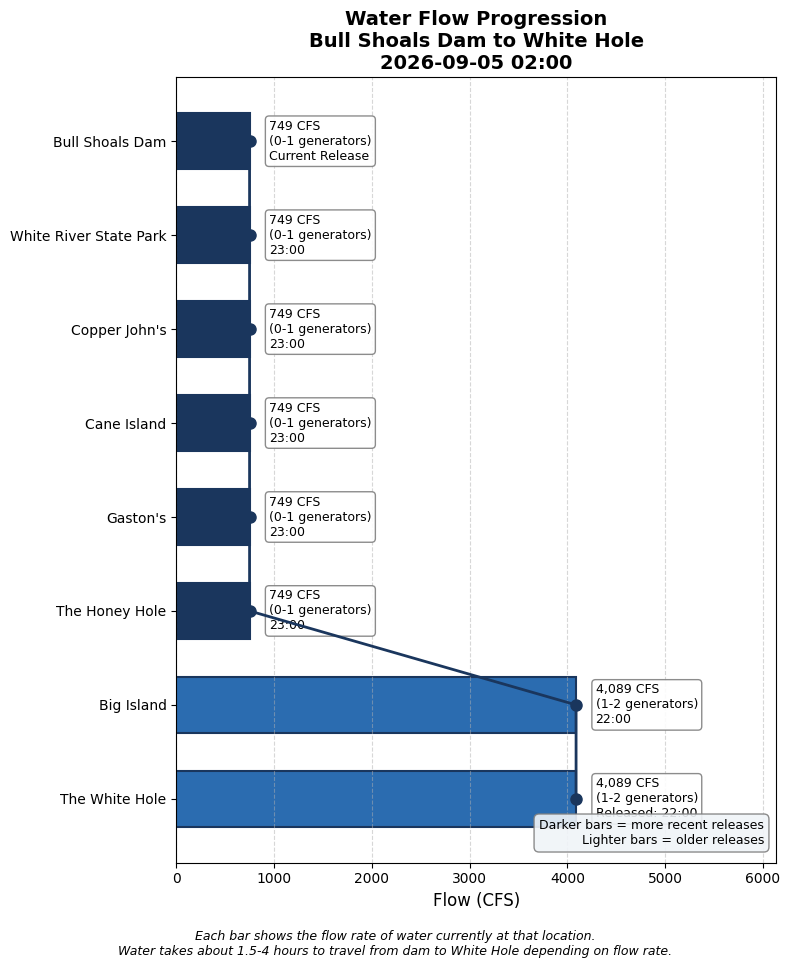
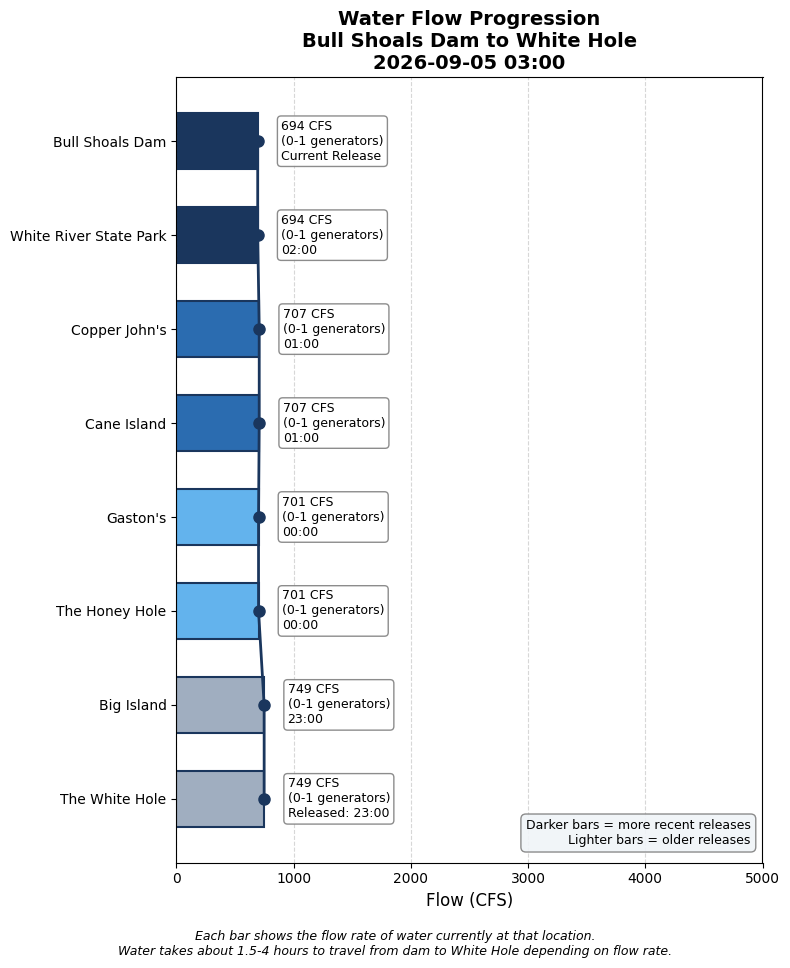
Update water conditions 2026-09-05 04:00

diff --git a/white_hole_conditions.html b/white_hole_conditions.html
@@ -3,7 +3,7 @@
 <head>
     <meta charset="UTF-8">
     <meta name="viewport" content="width=device-width, initial-scale=1.0">
-    <title>White Hole Conditions - 2026-09-05 02:00</title>
+    <title>White Hole Conditions - 2026-09-05 03:00</title>
     <style>
         body {
             font-family: -apple-system, BlinkMacSystemFont, 'Segoe UI', Roboto, sans-serif;
@@ -23,7 +23,7 @@
             margin-bottom: 20px;
         }
         .headline-banner {
-            background-color: #2b6cb0;
+            background-color: #319795;
             color: white;
             border-radius: 12px;
             padding: 25px;
@@ -73,12 +73,12 @@
             font-weight: 500;
         }
         .pill.wading {
-            background-color: #fef3c7;
-            color: #92400e;
+            background-color: #d1fae5;
+            color: #065f46;
         }
         .pill.boating {
-            background-color: #dbeafe;
-            color: #1e40af;
+            background-color: #fef3c7;
+            color: #92400e;
         }
         .timeline-box {
             background-color: white;
@@ -148,30 +148,24 @@
 </head>
 <body>
     <h1>White Hole Current Conditions</h1>
-    <p class="subtitle">Saturday, September 05, 2026 at 02:00 AM</p>
+    <p class="subtitle">Saturday, September 05, 2026 at 03:00 AM</p>
 
-    <div style="background-color: #fee2e2; color: #991b1b; border: 1px solid #fca5a5; border-radius: 12px; padding: 15px 25px; margin-bottom: 20px; font-weight: 500;">
-        ⚠ LIVE DAM FEED UNAVAILABLE — Showing the last successfully retrieved readings. Conditions may have changed since.
-    </div>
 
-    <div style="background-color: #fef3c7; color: #92400e; border: 1px solid #fcd34d; border-radius: 12px; padding: 15px 25px; margin-bottom: 20px; font-weight: 500;">
-        ⚠ DAM DATA DELAYED — The latest reading is 3.0 hours old. Conditions shown may not reflect the river right now.
-    </div>
     <!-- HEADLINE BANNER -->
     <div class="headline-banner">
-        <div class="main-status">⚠ MARGINAL WADING — Use caution</div>
-        <div class="forecast-status">📉 FALLING WATER — Conditions improving</div>
+        <div class="main-status">✅ GOOD WADING — Conditions favorable</div>
+        <div class="forecast-status">➡ STABLE CONDITIONS expected</div>
         
     </div>
 
     <!-- CURRENT CONDITIONS -->
     <div class="current-conditions">
         <h3>Current Conditions at White Hole</h3>
-        <div class="flow-display">4,089 CFS</div>
-        <div class="generator-display">Equivalent to 1-2 generators</div>
+        <div class="flow-display">749 CFS</div>
+        <div class="generator-display">Equivalent to 0-1 generators</div>
         <div class="condition-pills">
-            <span class="pill wading">Still Wadable</span>
-            <span class="pill boating">Ideal Boating</span>
+            <span class="pill wading">Excellent Wading</span>
+            <span class="pill boating">Low For Boating</span>
         </div>
         <a href="https://www.youtube.com/channel/UCAXhb9nFnsfu367AthDrgIA/live" target="_blank" class="webcam-link" style="margin-top: 15px;">
             📹 View Live Webcam
@@ -197,21 +191,27 @@
                 <tr><td colspan="3" style="padding: 8px 10px; font-size: 0.8em; font-weight: bold; color: #2b6cb0; text-transform: uppercase; letter-spacing: 0.05em; background-color: #ebf8ff;">Actual (dam readings)</td></tr>
                 
                     <tr style="background-color: #ebf8ff;">
-                        <td style="padding: 10px; font-weight: bold;">11:00 PM</td>
-                        <td style="padding: 10px;">749 CFS<br><small style="color: #666;">(0-1 generators)</small></td>
-                        <td style="padding: 10px;"><span style="color: #2b6cb0;">→ Arrives ~2:44 AM (in 43 min)</span></td>
+                        <td style="padding: 10px; font-weight: bold;">2:00 AM</td>
+                        <td style="padding: 10px;">694 CFS<br><small style="color: #666;">(0-1 generators)</small></td>
+                        <td style="padding: 10px;"><span style="color: #2b6cb0;">→ Arrives ~5:44 AM (in 163 min)</span></td>
+                    </tr>
+                
+                    <tr style="background-color: #ebf8ff;">
+                        <td style="padding: 10px; font-weight: bold;">1:00 AM</td>
+                        <td style="padding: 10px;">707 CFS<br><small style="color: #666;">(0-1 generators)</small></td>
+                        <td style="padding: 10px;"><span style="color: #2b6cb0;">→ Arrives ~4:44 AM (in 103 min)</span></td>
+                    </tr>
+                
+                    <tr style="background-color: #ebf8ff;">
+                        <td style="padding: 10px; font-weight: bold;">12:00 AM</td>
+                        <td style="padding: 10px;">701 CFS<br><small style="color: #666;">(0-1 generators)</small></td>
+                        <td style="padding: 10px;"><span style="color: #2b6cb0;">→ Arrives ~3:44 AM (in 43 min)</span></td>
                     </tr>
                 
                     <tr style="background-color: #e6fffa;">
-                        <td style="padding: 10px; font-weight: bold;">10:00 PM</td>
-                        <td style="padding: 10px;">4,089 CFS<br><small style="color: #666;">(1-2 generators)</small></td>
+                        <td style="padding: 10px; font-weight: bold;">11:00 PM</td>
+                        <td style="padding: 10px;">749 CFS<br><small style="color: #666;">(0-1 generators)</small></td>
                         <td style="padding: 10px;"><span style="color: #319795; font-weight: bold;">← AT WHITE HOLE NOW</span></td>
-                    </tr>
-                
-                    <tr style="">
-                        <td style="padding: 10px; font-weight: bold;">6:00 PM</td>
-                        <td style="padding: 10px;">20,237 CFS<br><small style="color: #666;">(6-7 generators)</small></td>
-                        <td style="padding: 10px;"><span style="color: #718096;">passed</span></td>
                     </tr>
                 
             
@@ -238,9 +238,9 @@
         </summary>
         <div style="padding: 15px;">
             <ul>
-                <li>Latest dam reading: 749 CFS at 2026-09-04 23:00</li>
-                <li>Travel time to White Hole: 3.1 hours at current flow</li>
-                <li>White Hole conditions based on dam reading from: 2026-09-04 22:00</li>
+                <li>Latest dam reading: 694 CFS at 2026-09-05 02:00</li>
+                <li>Travel time to White Hole: 3.7 hours at current flow</li>
+                <li>White Hole conditions based on dam reading from: 2026-09-04 23:00</li>
             </ul>
         </div>
     </details>
@@ -262,6 +262,27 @@
                     </thead>
                     <tbody>
                         
+                <tr style="border-bottom: 1px solid #eee;">
+                    <td style="padding: 8px;">2026-09-05 02:00</td>
+                    <td style="padding: 8px; text-align: right;">694</td>
+                    <td style="padding: 8px; text-align: right;">0.2</td>
+                    <td style="padding: 8px; text-align: right;">3.7</td>
+                </tr>
+                
+                <tr style="border-bottom: 1px solid #eee;">
+                    <td style="padding: 8px;">2026-09-05 01:00</td>
+                    <td style="padding: 8px; text-align: right;">707</td>
+                    <td style="padding: 8px; text-align: right;">0.2</td>
+                    <td style="padding: 8px; text-align: right;">3.7</td>
+                </tr>
+                
+                <tr style="border-bottom: 1px solid #eee;">
+                    <td style="padding: 8px;">2026-09-05 00:00</td>
+                    <td style="padding: 8px; text-align: right;">701</td>
+                    <td style="padding: 8px; text-align: right;">0.2</td>
+                    <td style="padding: 8px; text-align: right;">3.7</td>
+                </tr>
+                
                 <tr style="border-bottom: 1px solid #eee;">
                     <td style="padding: 8px;">2026-09-04 23:00</td>
                     <td style="padding: 8px; text-align: right;">749</td>
@@ -318,13 +339,6 @@
                     <td style="padding: 8px; text-align: right;">2.1</td>
                 </tr>
                 
-                <tr style="border-bottom: 1px solid #eee;">
-                    <td style="padding: 8px;">2026-09-04 15:00</td>
-                    <td style="padding: 8px; text-align: right;">16883</td>
-                    <td style="padding: 8px; text-align: right;">5.1</td>
-                    <td style="padding: 8px; text-align: right;">2.1</td>
-                </tr>
-                
                     </tbody>
                 </table>
             </div>
@@ -336,44 +350,44 @@
     <details class="timeline-box">
         <summary style="cursor: default; list-style: none;">
             <h3 style="display: inline;">🎣 Fishing Report — Gaston's to Cranor's Island</h3>
-            <span style="color: #666; margin-left: 8px;">Around 1 unit (2,000–5,000 CFS) · 4,089 CFS</span>
+            <span style="color: #666; margin-left: 8px;">Minimum flow (dead low) · 749 CFS</span>
         </summary>
         <p style="color: #666; margin: 12px 0 4px;">Fall (September–October): pre-spawn browns</p>
         
-        <p style="font-size: 1.1em; margin: 10px 0;"><strong>Around 1 unit (2,000–5,000 CFS)</strong>
-            — 4,089 CFS at White Hole (1-2 generators)</p>
-        <p style="color: #444;">The best all-round level. The channel runs cleanly and shoals are passable with care. Wading is still possible with caution near edges.</p>
+        <p style="font-size: 1.1em; margin: 10px 0;"><strong>Minimum flow (dead low)</strong>
+            — 749 CFS at White Hole (0-1 generators)</p>
+        <p style="color: #444;">The river is a giant spring creek. Gravel bars exposed; prop strikes are the boat risk and the White Hole ramp can be tricky to launch. Wading is wide open. Fish see everything — go light for rainbows, go dark (not light) for browns.</p>
         <p style="margin: 6px 0; font-size: 0.9em;"><a href="https://www.google.com/maps?q=36.347597191038865,-92.55540040484095" target="_blank" style="color: #2b6cb0;">📍 Gaston's</a> · <a href="https://www.google.com/maps?q=36.329897607316106,-92.53355649411128" target="_blank" style="color: #2b6cb0;">📍 White Hole</a> · <a href="https://www.google.com/maps?q=36.333492497534266,-92.56191314472997" target="_blank" style="color: #2b6cb0;">📍 Cranor's Island</a></p>
         <h4 style="color: #2c3e50; margin: 18px 0 6px;">Where to go</h4>
-        <ul style="margin: 0 0 0 5px;"><li>Seams where slow water meets the main current — tie in the slack, cast to the seam</li><li>The head of the White Hole and the shoal-tail drop-offs</li><li>Both sides of Cranor's Island (deepest water far side)</li><li>Behind logs, rocks and boulders; downstream of islands; inside bends</li></ul>
+        <ul style="margin: 0 0 0 5px;"><li>The weed-bed edges a short run upstream of the White Hole ramp — sowbug and scud water; trout hold on the edges and pick</li><li>The head of the White Hole where the deep water starts at the ramp and runs downstream</li><li>The downstream lip (drop-off) of every shoal, where gravel falls into the run</li><li>The seam where the main tongue runs past a moss/grass bed — the single most important low-water feature</li><li>Undercut banks, root wads, log jams, boulder pockets (brown water)</li><li>Cranor's Island — fish both sides, deepest water on the far side; downstream holds low water longest</li></ul>
 
         <h4 style="color: #2c3e50; margin: 18px 0 6px;">Boat &amp; anchoring</h4>
-        <ul style="margin: 0 0 0 5px;"><li>Tie from the BOW, bow pointed upstream, slip knot at the cleat, knife within reach</li><li>Rotate spots every 45–60 minutes: untie, drop 100 yards, retie</li><li>Drifting works well at this level: drift the seams, motor back up, repeat — the driver's on the tiller and sits out, so rotate who drives</li></ul>
+        <ul style="margin: 0 0 0 5px;"><li>Bank-tie is easy and anchoring is safe at this level</li><li>Watch the prop over gravel bars; know the channel before running</li><li>Low water lingers longest downstream — run down early, work back upstream as any afternoon water arrives</li></ul>
 
         <h4 style="color: #2c3e50; margin: 18px 0 6px;">Timing</h4>
-        <ul style="margin: 0 0 0 5px;"><li>Fish the generation change: the leading edge of a rise and the first hour of falling water beat any time on the clock</li><li>DROP EN ROUTE: 749 CFS reaches White Hole ~2:44 AM — the first hour of falling water is a prime bite window</li></ul>
+        <ul style="margin: 0 0 0 5px;"><li>Fish the generation change: the leading edge of a rise and the first hour of falling water beat any time on the clock</li></ul>
 
         <div style="background-color: #f0f7f4; border-radius: 8px; padding: 15px; margin-top: 18px;">
             <h4 style="color: #2c3e50; margin: 0 0 8px;">🎣 Spin Fishing</h4>
-            <p style="margin: 4px 0;"><strong>Rig:</strong> White River rig both programs: 1/4 oz bell (#8), hook leg 24–36 in, size 10 swivel. 'Leader' below = the line the whole Y is tied from.</p>
+            <p style="margin: 4px 0;"><strong>Rig:</strong> White River rig both programs: dropper-loop Y, 6–10 in sinker leg with a 1/8 oz bell (#10), size 10 barrel swivel up top, hook leg long at this flow (30–48 in). Each program's 'Leader' below is the single piece of line the whole Y is tied from — both legs; your main line stays as spooled.</p>
             
             <p style="margin: 10px 0 4px;"><strong style="color: #7b4a12;">🟤 Browns — trophy program (all released)</strong></p>
-            <ul style="margin: 0 0 0 5px;"><li>Leader: 8 lb fluorocarbon</li><li>Countdown jerkbaits (brown-trout, brook-trout patterns) counted down and twitched along the drop-offs</li><li>3-in minnow on the split-shot rig, lips-hooked: cast quartering upstream and drift it naturally past structure and drop-offs, feeding line to stretch the drift — drift speed is the whole game</li><li>TWO whole night crawlers on the White River rig — threaded on a #4, tails dangling, cast downstream from the tied boat and held</li><li>The downstream hang with a spinner: let it swing dead below the boat and hold — the blade works on current alone</li><li>Marabou 'sculpin' jig along the bottom of the slots</li><li>The crawdad presentation earns its fall slot — soft-shell crawdads are a named top natural bait for browns: half a green-pumpkin Senko on the 1/10 oz Ned head (tied direct), or a soft craw plastic if bought (see gear check — not owned)</li></ul>
+            <ul style="margin: 0 0 0 5px;"><li>Leader: 8 lb fluorocarbon, tied direct — drop the swivel for these fish. You can't land this program's target on 4 lb around wood; fish lower light instead of lighter line</li><li>Sculpin on the split-shot rig (not the Y): leader straight to a #1 drop-shot hook, split shot pinched a foot up — presented at the openings around the base of big rocks. THE trophy bait — legal to catch your own (see Bait prep in the rigging reference)</li><li>Whole inflated night crawler (hook first, then 4–5 air bubbles) on the White River rig — the long hook leg lets it float and drift</li><li>Marabou jig in the 'sculpin' olive/brown, hopped along the deep slots at first and last light</li><li>The crawdad presentation earns its fall slot — soft-shell crawdads are a named top natural bait for browns: half a green-pumpkin Senko on the 1/10 oz Ned head (tied direct), or a soft craw plastic if bought (see gear check — not owned)</li></ul>
             <p style="margin: 10px 0 4px;"><strong style="color: #9d2f4c;">🌈 Rainbows &amp; others — numbers program (keep 2 under 14 in)</strong></p>
-            <ul style="margin: 0 0 0 5px;"><li>Leader: 4 lb mono</li><li>Crawler stubs, PowerBait, shrimp on the White River rig through the seams</li><li>1/4 oz spoons — Kastmaster chrome or chrome/blue, Little Cleo-class, gold w/ red accents. Gold in bright sun, silver/nickel under cloud</li><li>1/4 oz Rooster Tail (flame/chartreuse) or Mepps Aglia #3, quartering upstream, sink first, steady retrieve — the take comes on the swing (Black Fury #3 on dark days)</li><li>Float rig in the slower lanes, still effective to ~2 units</li><li>Orange scented-garlic PowerBait is the named fall color</li></ul>
+            <ul style="margin: 0 0 0 5px;"><li>Leader: 4 lb mono — this is 'the lighter the better' water, and the fish won't test it</li><li>PowerBait pink or white floating worm / Mice Tail on the White River rig: floats ~a foot off bottom from a #4 light-wire Aberdeen (keep the hook leg mono — fluoro sinks and kills the lift)</li><li>Also on the White River rig: 1½-in crawler or red-worm stubs, peeled shrimp chunks (survive current far better than dough), or the egg-bead variant — orange bead pegged a couple inches above a bare #4 on the hook leg</li><li>Float rig — the highest-leverage method: slip float + bobber stop, 1/16 oz panfish head with a 2 in white grub or pink-head crappie jig, 1–3 ft off bottom, fed 40–80 ft downstream and repeated</li><li>1/16 oz Beetle Spin or the small Panther Martin along seams and soft edges</li><li>Orange scented-garlic PowerBait is the named fall color</li></ul>
             
             <p style="margin: 10px 0 4px;"><strong>Notes:</strong></p>
-            <ul style="margin: 0 0 0 5px;"><li>Never clip a snap swivel to a spinner — run an 18 in leader to a small barrel swivel up the line</li></ul>
+            <ul style="margin: 0 0 0 5px;"><li>One rod per angler in the water (regulation) — keep the other program's rod rigged and ready to swap, not fishing</li></ul>
         </div>
 
         <div style="background-color: #f4f2f7; border-radius: 8px; padding: 15px; margin-top: 12px;">
             <h4 style="color: #2c3e50; margin: 0 0 8px;">🪶 Fly Fishing (9 ft 5-wt)</h4>
-            <p style="margin: 4px 0;"><strong>Setup:</strong> Indicator rig with real weight (Airlock/Thingamabobber class), the swing setup, or the streamer sink-leader: fast-sinking VersiLeader/polyleader looped on the floating line ('insta-sink-tip', ~$15).</p>
+            <p style="margin: 4px 0;"><strong>Setup:</strong> 9 ft 5-wt (Recon). Mechanics are shared: tightline the near seam with a 10–12 ft thin leader (the owned 20 lb fluoro makes the butt, down to a tippet ring), or swing on a shortened 6–7½ ft leader. Species decide the tippet and the fly.</p>
             
             <p style="margin: 10px 0 4px;"><strong style="color: #7b4a12;">🟤 Browns — trophy program (all released)</strong></p>
-            <ul style="margin: 0 0 0 5px;"><li>Tippet: 8 lb fluoro on the sink leader; the same spool if nymphing the slots</li><li>Olive Woolly Bugger #8–10 / black Girdle Bug #8–10, swung — not stripped — through bank seams and shoal tails</li><li>Sunday Special #12 tungsten deep in the slots</li><li>A #10 hopper on warm afternoons — browns here reportedly favor pink and black/purple hoppers</li></ul>
+            <ul style="margin: 0 0 0 5px;"><li>Tippet: 8 lb fluoro — nymphs and the streamer swing alike</li><li>Olive Woolly Bugger #8–10 or black Girdle Bug #8–10 swung at first and last light</li><li>Sunday Special #12 tungsten dredged through the deep slots where the big fish hold</li><li>Swing the soft hackle through shoal tails and hang it 6–10 seconds at the dangle — a trophy-finding presentation</li><li>A #10 hopper on warm afternoons — browns here reportedly favor pink and black/purple hoppers</li></ul>
             <p style="margin: 10px 0 4px;"><strong style="color: #9d2f4c;">🌈 Rainbows &amp; others — numbers program (keep 2 under 14 in)</strong></p>
-            <ul style="margin: 0 0 0 5px;"><li>Tippet: 4 lb-class fluoro (5X)</li><li>Sowbug/midge pair under the indicator through the seams; lengthen the drift by feeding line</li><li>Swing soft hackles, covering water by lengthening 20, 25, 30, 35 ft</li><li>Egg and pink San Juan worm near the banks whenever the water is moving up</li><li>Dry-dropper a hopper over the soft bank water on warm afternoons</li></ul>
+            <ul style="margin: 0 0 0 5px;"><li>Tippet: 4 lb-class fluoro (5X)</li><li>Gray sowbug #14–16 point + Zebra/Ruby Midge #16–18 dropper 18 in above, tightlined on the near seam</li><li>Short indicator drift, 20–25 ft max, indicator ~1.5× depth; stick-on indicators hold on fine tippet at this flow</li><li>Pink San Juan worm or peach/orange egg the moment any water starts moving up</li><li>Dry-dropper a hopper over the soft bank water on warm afternoons</li></ul>
         </div>
 
         <h4 style="color: #2c3e50; margin: 18px 0 6px;">Season notes</h4>
@@ -443,7 +457,7 @@
     </details>
 
     <div class="timestamp">
-        Data retrieved and processed on 2026-09-05 02:00:27 (Central time)<br>
+        Data retrieved and processed on 2026-09-05 03:00:28 (Central time)<br>
         Travel times are observational estimates (per <a href="https://www.hisplaceresort.net/white-river-info" target="_blank" style="color: #718096;">His Place Resort</a>) &mdash; always judge wading safety on-site.<br>
         &copy; 2026 Brian Carroll. All rights reserved.
     </div>
